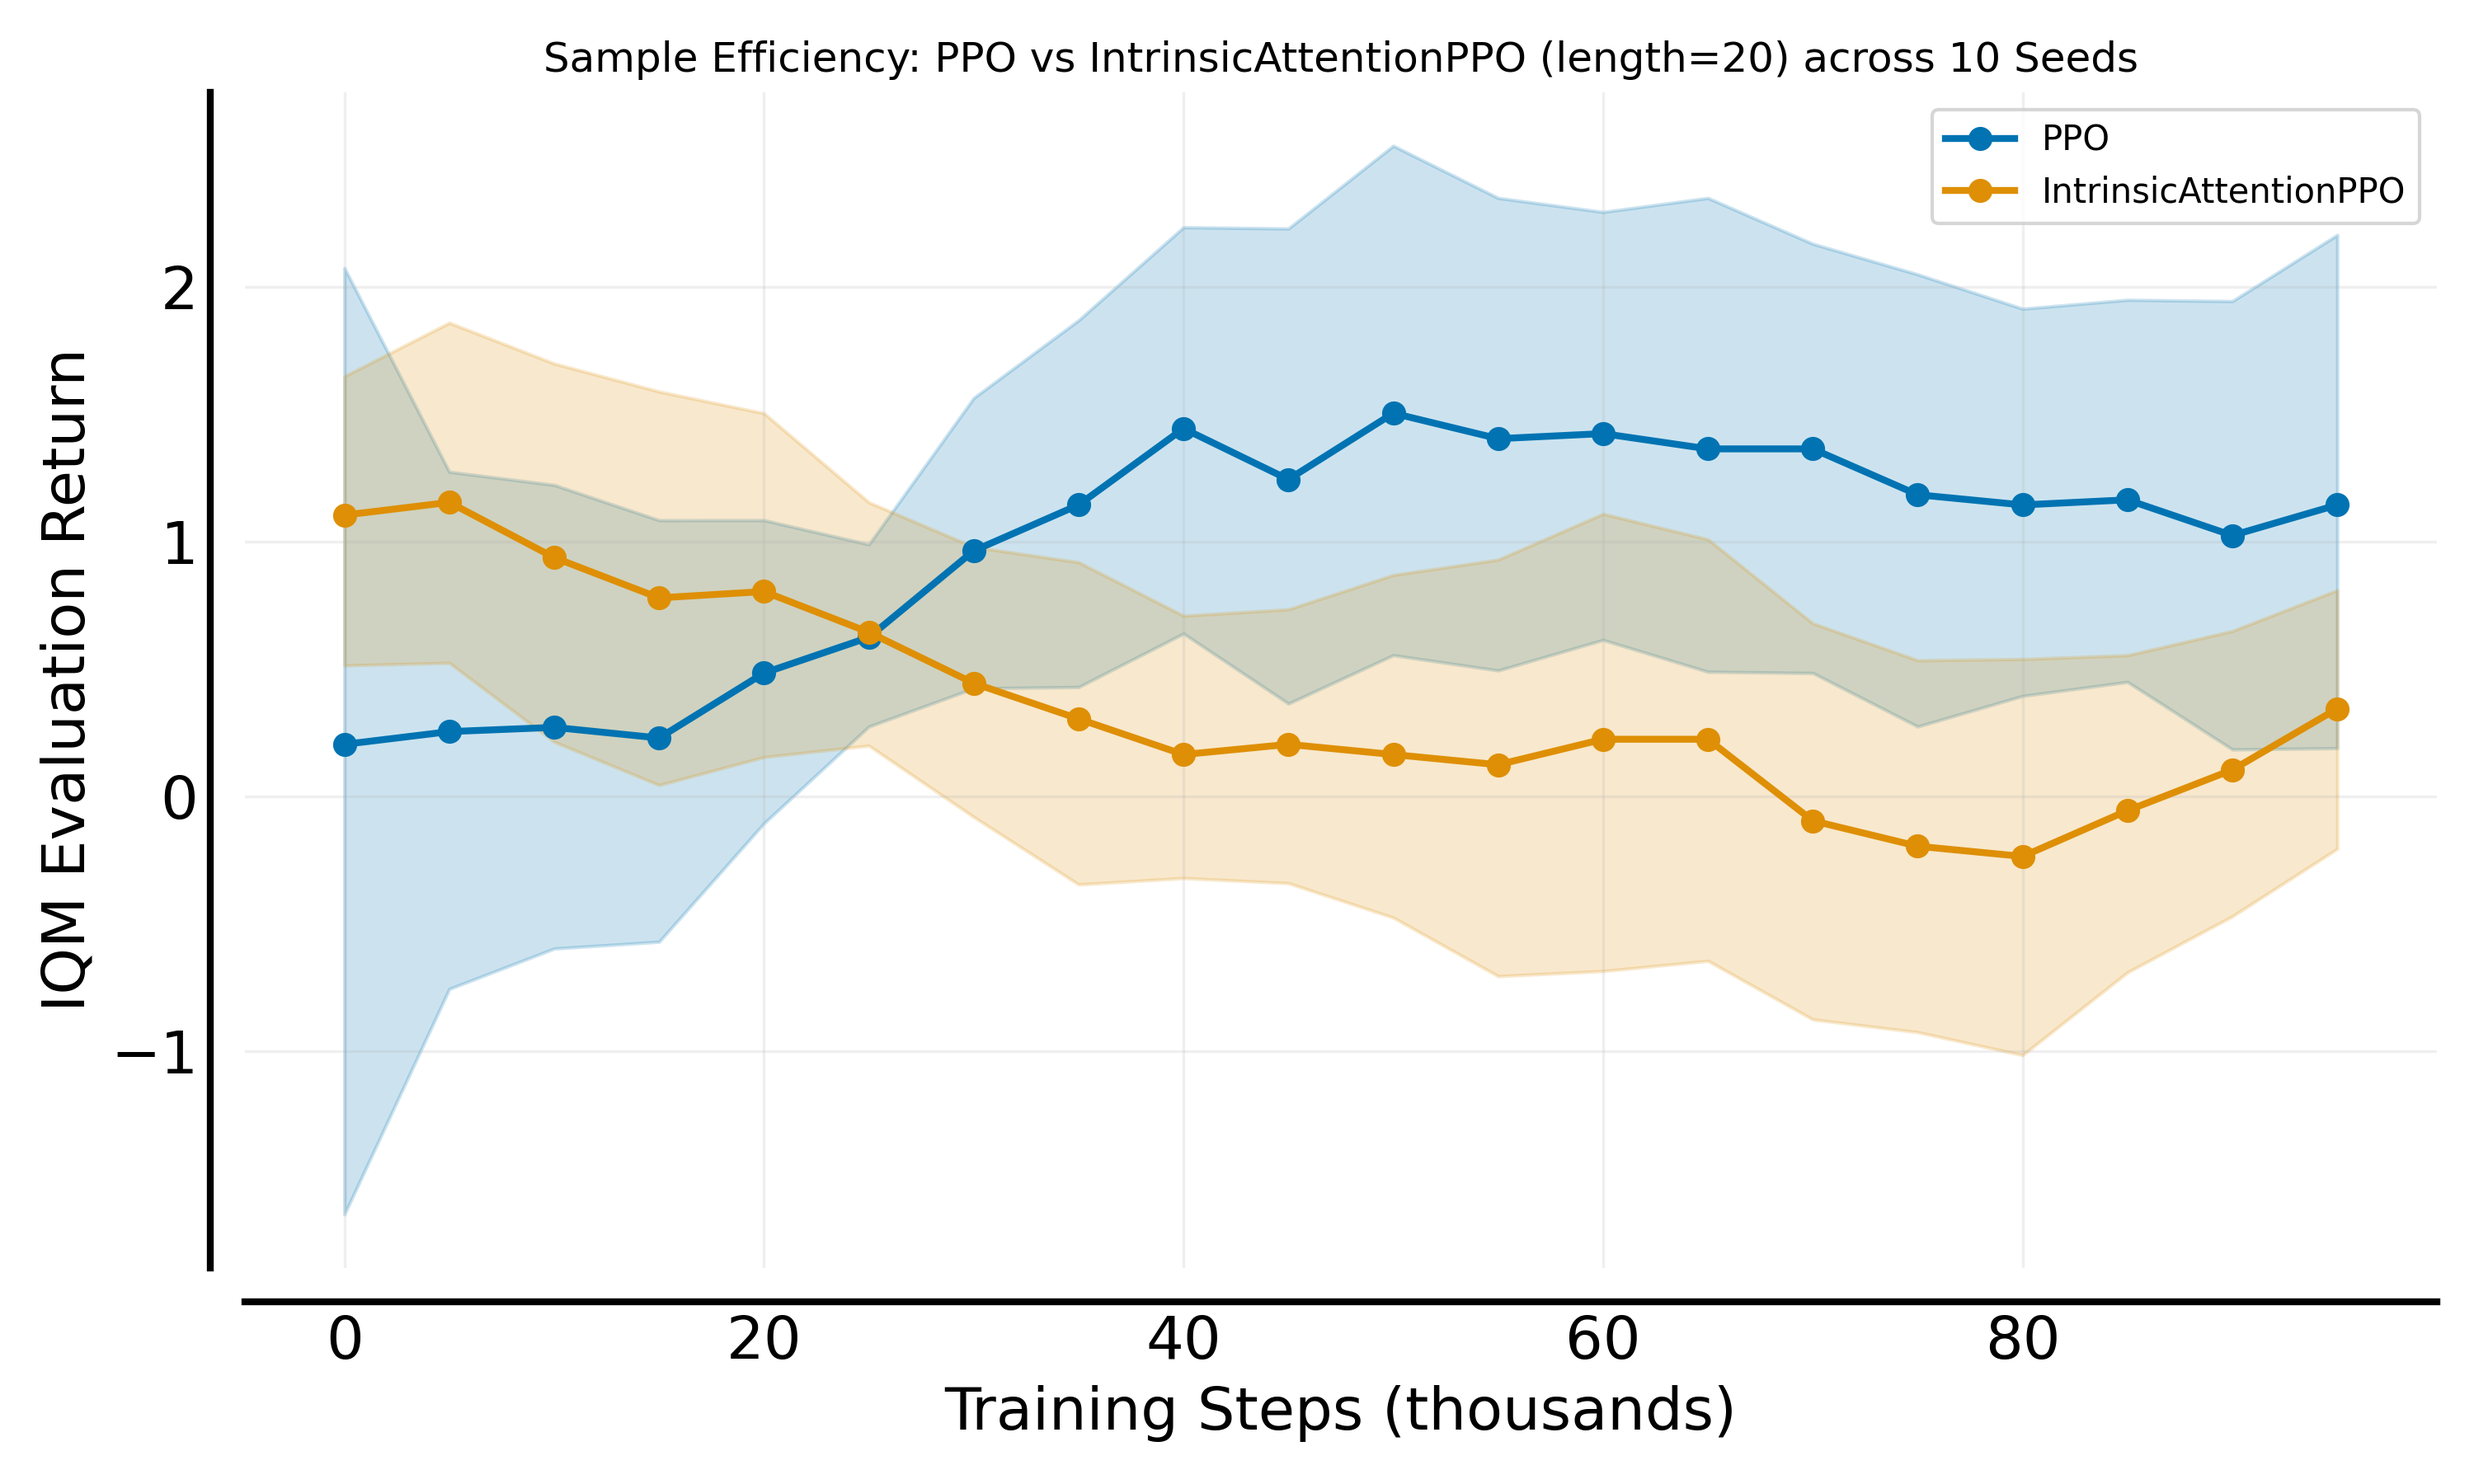
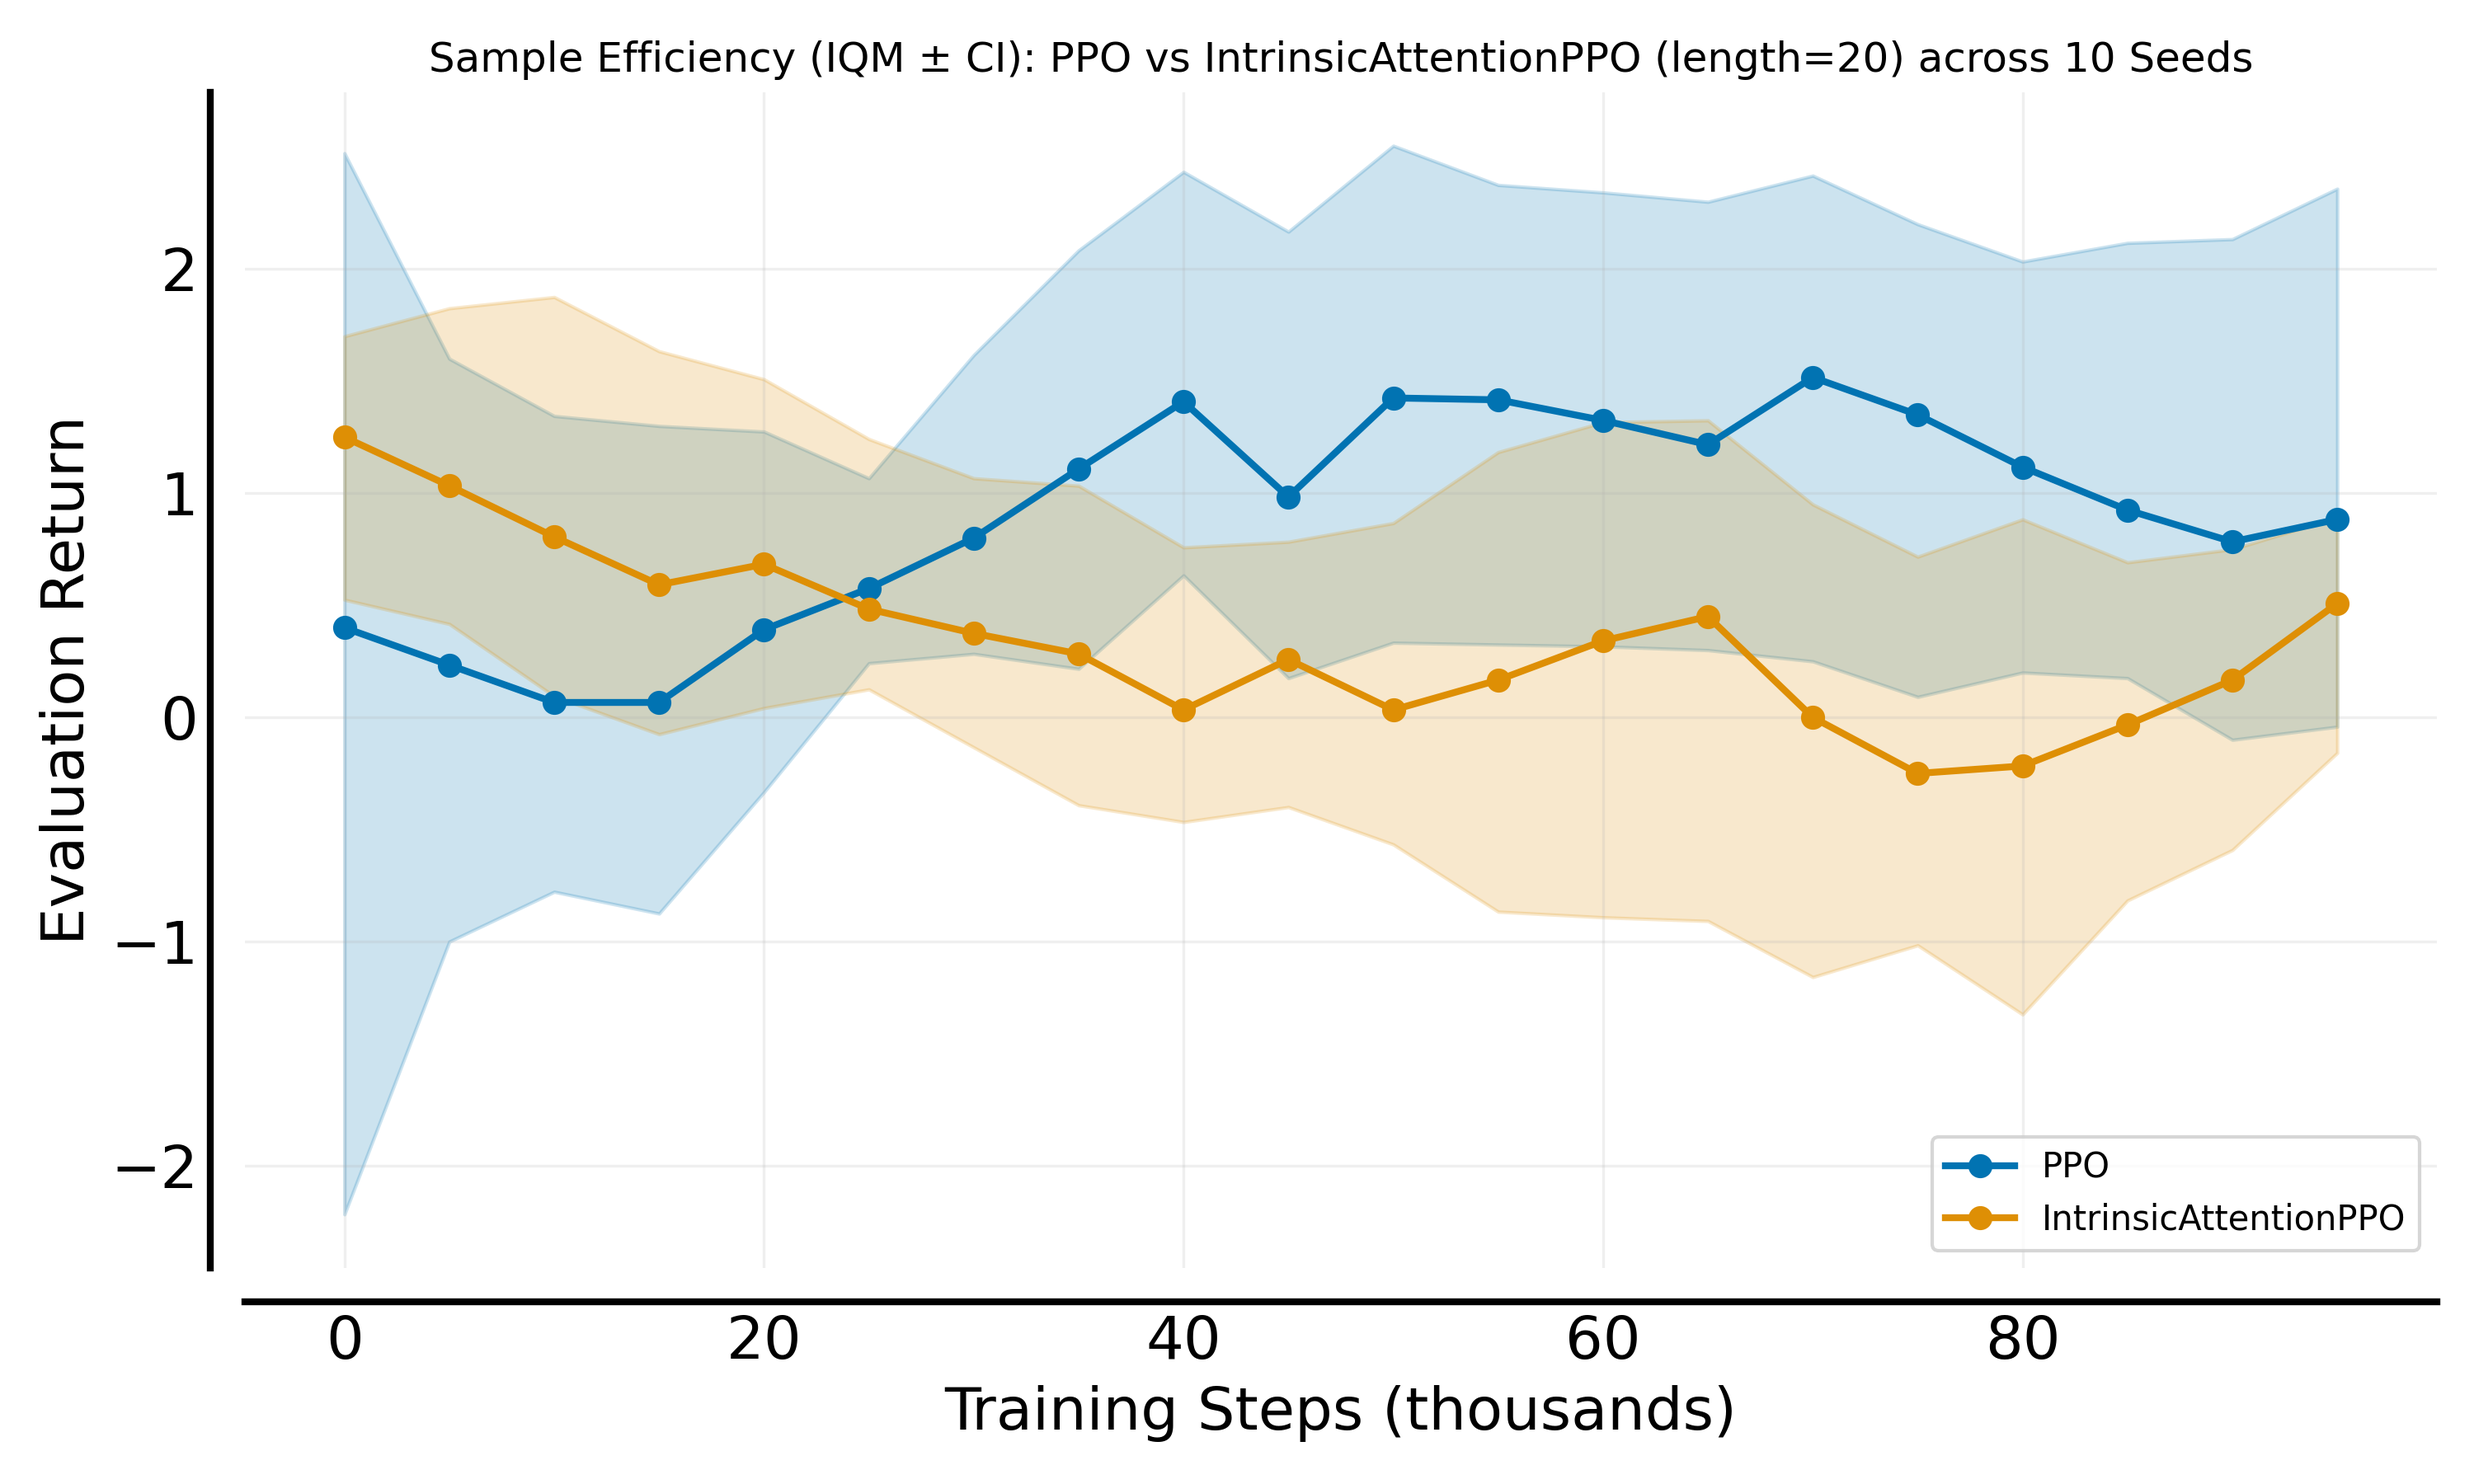
finale rlliable plots

diff --git a/source/experiments/plots/sample_efficency.py b/source/experiments/plots/sample_efficency.py
@@ -1,9 +1,13 @@
 from typing import Dict, List, Union
 
+import json
 import re
 from pathlib import Path
 
+import matplotlib.pyplot as plt
 import numpy as np
+from rliable import library as rly
+from rliable import metrics, plot_utils
 
 PPO_DATA = "./experiment_data/UmbrellaPPO"
 INTRINSICATTENTION_DATA = "./experiment_data/UmbrellaIntrinsicAttentionPPO"
@@ -14,24 +18,25 @@ INTRINSICATTENTION_DATA = "./experiment_data/UmbrellaIntrinsicAttentionPPO"
 
 def collect_result_entries(data_root: Union[str, Path]) -> List[Dict[str, object]]:
     """
-    Durchsuche den gegebenen Datenordner rekursiv nach 'result.json' und liefere
-    eine Liste von Dicts mit:
-      - result_json: Pfad zur jeweiligen 'result.json'
-      - seed: Seed (aus dem Ordnernamen zwei Ebenen über der Datei)
-      - length: Länge des Environments (aus dem Ordnernamen zwei Ebenen über der Datei)
-    Einfach gehalten, ohne umfangreiches Fehlerhandling.
+    Recursively searches the specified data directory for 'result.json' files and extracts metadata for each file.
+
+    Returns a list of dictionaries, each containing:
+        - 'result_json': Path to the result file.
+        - 'seed': Seed value extracted from the directory name.
+        - 'length': Environment length extracted from the directory name.
+
+    Only files matching the expected directory pattern are included.
     """
     root = Path(data_root)
     entries: List[Dict[str, object]] = []
     pattern = re.compile(r"seed(\d+).*length(\d+)", re.IGNORECASE)
 
     for rj in root.rglob("result.json"):
-        # Zwei Ebenen über der Datei: .../<seed_length_dir>/<trial_dir>/result.json
         two_up_name = rj.parent.parent.name
         m = pattern.search(two_up_name)
         if not m:
             print("Pattern passt nicht")
-            continue  # schlicht überspringen, wenn nicht passend
+            continue
         seed = int(m.group(1))
         length = int(m.group(2))
         entries.append(
@@ -44,19 +49,17 @@ def collect_result_entries(data_root: Union[str, Path]) -> List[Dict[str, object
     return entries
 
 
-import json
-
-
 def extract_episode_returns(
     entries: List[Dict[str, object]],
 ) -> List[Dict[str, object]]:
     """
-    Extrahiere aus jeder result.json die Liste der episode_return_mean Werte unter
-    evaluation/env_runners/episode_return_mean.
-    Gibt eine Liste von Dicts zurück mit:
-      - length
-      - seed
-      - episode_return_mean: Liste der Werte aus allen result.json-Dateien
+    Loads the list of episode return means from each result.json file under
+    'evaluation/env_runners/episode_return_mean'.
+
+    Returns a list of dictionaries, each containing:
+        - 'length': Environment length.
+        - 'seed': Seed value.
+        - 'episode_return_mean': List of episode return means for that seed and length.
     """
     results = []
     for entry in entries:
@@ -66,7 +69,6 @@ def extract_episode_returns(
             for line in f:
                 try:
                     data = json.loads(line)
-                    # Extrahiere episode_return_mean, falls vorhanden
                     erm = (
                         data.get("evaluation", {})
                         .get("env_runners", {})
@@ -78,7 +80,6 @@ def extract_episode_returns(
                         raise NotImplementedError
                 except Exception:
                     raise NotImplementedError
-                    continue  # einfach überspringen
 
         results.append(
             {
@@ -92,11 +93,11 @@ def extract_episode_returns(
 
 def aggregate_by_length(results: List[Dict[str, object]]) -> Dict[int, np.ndarray]:
     """
-    Aggregiert die Ausgabe von extract_episode_returns nach length.
-    Gibt ein Dictionary zurück:
-      key: length
-      value: numpy array mit Shape (n_seeds, 1, n_evals)
-    Padding mit np.nan, falls die Listen unterschiedlich lang sind.
+    Aggregates episode return means by environment length.
+
+    Returns a dictionary:
+        key: length
+        value: numpy array of shape (n_seeds, 1, n_evals), padded with np.nan if necessary.
     """
     length_dict: Dict[int, List[List[float]]] = {}
     for entry in results:
@@ -115,43 +116,32 @@ def aggregate_by_length(results: List[Dict[str, object]]) -> Dict[int, np.ndarra
     return out
 
 
-import matplotlib.pyplot as plt
-from rliable import library as rly
-from rliable import metrics, plot_utils
-
-
 def plot_sample_efficiency_comparison(
     ppo_data: Dict[int, np.ndarray],
     intrinsic_data: Dict[int, np.ndarray],
     save_dir="rliable_plots",
 ):
     """
-    Vergleicht PPO und IntrinsicAttentionPPO für jede Länge in einem Sample Efficiency Plot.
-    Speichert die Plots als PNG im angegebenen Verzeichnis.
+    Creates sample efficiency plots for PPO and IntrinsicAttentionPPO for each environment length.
+
+    Plots IQM and confidence intervals over training steps and saves each plot as a PNG file.
     """
     Path(save_dir).mkdir(exist_ok=True)
-    for length in ppo_data.keys():
-        print(f"Länge {length}: PPO-Daten (erste Zeile): {ppo_data[length][0, 0, :]}")
-        print(
-            f"Länge {length}: Intrinsic-Daten (erste Zeile): {intrinsic_data[length][0, 0, :]}"
-        )
+    # Do zeropadding for missing values
     for length, arr in ppo_data.items():
         ppo_data[length] = np.nan_to_num(arr, nan=0.0)
     for length, arr in intrinsic_data.items():
         intrinsic_data[length] = np.nan_to_num(arr, nan=0.0)
     for length in ppo_data.keys():
-        # Daten vorbereiten: Shape (n_seeds, 1, n_evals) -> (n_seeds, n_evals)
-
         ppo_scores = ppo_data[length]
         intrinsic_scores = intrinsic_data[length]
 
-        # RLiable erwartet Dict[str, np.ndarray]
         data = {
             "PPO": ppo_scores,
             "IntrinsicAttentionPPO": intrinsic_scores,
         }
-        # Trainingsschritte: z.B. alle 5000 Schritte evaluiert
-        training_steps = np.arange(ppo_scores.shape[2]) * 5000  # Passe 5000 ggf. an!
+        # Hardcoded Training Step Size
+        training_steps = np.arange(ppo_scores.shape[2]) * 5000
 
         def iqm(scores):
             """
@@ -159,7 +149,7 @@ def plot_sample_efficiency_comparison(
             """
             return np.array(
                 [
-                    metrics.aggregate_mean(scores[..., frame])
+                    metrics.aggregate_iqm(scores[..., frame])
                     for frame in range(scores.shape[-1])
                 ]
             )
@@ -167,16 +157,16 @@ def plot_sample_efficiency_comparison(
         iqm_scores, iqm_cis = rly.get_interval_estimates(data, iqm, reps=10000)
         fig, ax = plt.subplots(figsize=(10, 6))
         plot_utils.plot_sample_efficiency_curve(
-            training_steps / 1000,  # in Tausend Schritten
+            training_steps / 1000,
             iqm_scores,
             iqm_cis,
             algorithms=list(data.keys()),
             xlabel="Training Steps (thousands)",
-            ylabel="IQM Evaluation Return",
+            ylabel="Evaluation Return",
             ax=ax,
         )
         ax.set_title(
-            f"Sample Efficiency: PPO vs IntrinsicAttentionPPO (length={length}) across 10 Seeds"
+            f"Sample Efficiency (IQM ± CI): PPO vs IntrinsicAttentionPPO (length={length}) across 10 Seeds"
         )
         ax.legend()
         ax.grid(True)
@@ -191,52 +181,54 @@ def plot_sample_efficiency_final_vs_length(
     save_path="rliable_plots/sample_efficiency_final_vs_length.png",
 ):
     """
-    Sample Efficiency Plot: x-Achse = Length, y-Achse = IQM der letzten Evaluation (über Seeds) mit Unsicherheiten.
+    Creates a summary plot with environment length on the x-axis and IQM of the final evaluation return (with uncertainty) on the y-axis.
+
+    Plots IQM and confidence intervals for PPO and IntrinsicAttentionPPO across all lengths and saves the plot as a PNG file.
     """
-    import matplotlib.pyplot as plt
-    import numpy as np
-    from rliable import library as rly
-    from rliable import metrics
+    # Do zeropadding for missing values
+    for length, arr in ppo_data.items():
+        ppo_data[length] = np.nan_to_num(arr, nan=0.0)
+    for length, arr in intrinsic_data.items():
+        intrinsic_data[length] = np.nan_to_num(arr, nan=0.0)
 
     lengths = sorted(ppo_data.keys())
+
+    def iqm_last(scores):
+        # scores: (n_seeds, 1, n_evals)
+        return metrics.aggregate_iqm(scores[:, 0, -1])
+
+    # Dict[str, np.ndarray] mit shape (n_seeds, 1, n_evals)
     data = {
-        "PPO": [],
-        "IntrinsicAttentionPPO": [],
+        "PPO": np.stack(
+            [ppo_data[length] for length in lengths], axis=1
+        ),  # shape (n_seeds, len(lengths), 1, n_evals)
+        "IntrinsicAttentionPPO": np.stack(
+            [intrinsic_data[length] for length in lengths], axis=1
+        ),
     }
-    cis = {
-        "PPO": [],
-        "IntrinsicAttentionPPO": [],
-    }
+    for alg in data:
+        data[alg] = np.stack(
+            [data[alg][:, i, 0, -1] for i in range(len(lengths))], axis=1
+        )
 
-    for length in lengths:
-        # Shape: (n_seeds, 1, n_evals)
-        ppo_scores = ppo_data[length][:, 0, -1][:, np.newaxis]  # Shape (n_seeds, 1)
-        intrinsic_scores = intrinsic_data[length][:, 0, -1][:, np.newaxis]
+    def iqm_curve(scores):
+        return np.array(
+            [metrics.aggregate_iqm(scores[:, i]) for i in range(scores.shape[1])]
+        )
 
-        def iqm(scores):
-            return metrics.aggregate_iqm(scores)
+    iqm_scores, iqm_cis = rly.get_interval_estimates(data, iqm_curve, reps=10000)
 
-        scores_dict = {
-            "PPO": ppo_scores,
-            "IntrinsicAttentionPPO": intrinsic_scores,
-        }
-        iqm_scores, iqm_cis = rly.get_interval_estimates(scores_dict, iqm, reps=10000)
-        for alg in data.keys():
-            data[alg].append(iqm_scores[alg])
-            cis[alg].append(iqm_cis[alg])
-
-    # Sample Efficiency Plot (analog zu plot_utils.plot_sample_efficiency_curve)
-    fig, ax = plt.subplots(figsize=(10, 6))
-    for alg, color in zip(data.keys(), ["tab:blue", "tab:orange"]):
-        means = np.array(data[alg])
-        lowers = np.array([ci[0] for ci in cis[alg]])
-        uppers = np.array([ci[1] for ci in cis[alg]])
-        ax.plot(lengths, means, label=alg, color=color)
-        # ax.fill_between(lengths, lowers, uppers, color=color, alpha=0.2)
-
-    ax.set_xlabel("Length")
-    ax.set_ylabel("IQM Final Evaluation Return")
-    ax.set_title("Sample Efficiency: Final Evaluation vs Length (IQM ± CI)")
+    fig, ax = plt.subplots(figsize=(10, 5))
+    plot_utils.plot_sample_efficiency_curve(
+        lengths,
+        iqm_scores,
+        iqm_cis,
+        algorithms=list(data.keys()),
+        xlabel="Length",
+        ylabel="Evaluation Return",
+        ax=ax,
+    )
+    ax.set_title("Final Evaluation vs Length (IQM ± CI) across 10 Seeds")
     ax.legend()
     ax.grid(True)
     plt.tight_layout()
@@ -245,6 +237,7 @@ def plot_sample_efficiency_final_vs_length(
 
 
 if __name__ == "__main__":
+    # Fetch the Data and create the plots
     ppo_entries = collect_result_entries(PPO_DATA)
     intrinsic_entries = collect_result_entries(INTRINSICATTENTION_DATA)
 
@@ -254,16 +247,7 @@ if __name__ == "__main__":
     ppo_data = aggregate_by_length(ppo_episode_returns)
     intrinsic_data = aggregate_by_length(intrinsic_episode_returns)
 
-    # plot_sample_efficiency_comparison(ppo_data, intrinsic_data)
-
-    plot_sample_efficiency_final_vs_length(ppo_data, intrinsic_data)
-    import pprint
-
-    # pprint.pprint(ppo_episode_returns)
-    # pprint.pprint(intrinsic_episode_returns)
-
-    pprint.pprint(ppo_data)
-    pprint.pprint(intrinsic_data)
+    plot_sample_efficiency_comparison(ppo_data, intrinsic_data)
 
     print(len(ppo_entries), "PPO entries found")
     print(len(intrinsic_entries), "Intrinsic Attention entries found")
